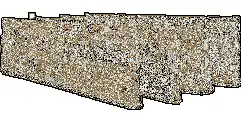
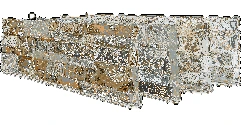
installation guide picture tag

diff --git a/installation.html b/installation.html
@@ -23,20 +23,27 @@ layout: default
     <div class="row">
       <div class="medium-4 columns">
         <h3 class="color-primary text-center">Rock Panels</h3>
-        <a href="/products/stacked-stone-cladding/"><img loading="lazy" class="orbit-image" alt="Rock Panel Installation" src="/assets/images/theme/installation-rock-panels.png" title="installation-rock-panels"/></a>
+        <a href="/products/stacked-stone-cladding/">
+          <img  class="orbit-image" alt="Rock Panel Installation" src="/assets/images/theme/installation-rock-panels.png" title="installation-rock-panels"/>
+        </a>
       </div>
       <div class="medium-4 columns">
         <h3 class="color-primary text-center">XL Rock Panels</h3>
-        <a href="/products/thin-stone-veneer-panels/"><img loading="lazy" class="orbit-image" alt="XL Rock Panel Installation" src="/assets/images/unsorted/installation-xlx-copy.png" title="installation-xlx-copy"/></a>
+        <a href="/products/thin-stone-veneer-panels/">
+          <img class="orbit-image" alt="XL Rock Panel Installation" src="/assets/images/unsorted/installation-xlx-copy.webp" title="installation-xlx-copy"/></a>
       </div>
       <div class="medium-4 columns">
         <h3 class="color-primary text-center">Lynia IL Tiles</h3>
-        <a href="/products/lynia-mosaic-tiles/"><img loading="lazy" class="orbit-image" alt="Basalt Installation" src="/assets/images/theme/installation-basalt.png" title="installation-basalt"/></a>
+        <a href="/products/lynia-mosaic-tiles/">
+          <img class="orbit-image" alt="Basalt Installation" src="/assets/images/theme/installation-basalt.webp" title="installation-basalt"/>
+        </a>
       </div>
     </div>
     <div class="row columns">
       <p>
-        <a href="#installation-techniques"><img width="180" height="25" alt="Installation Techniques" src="/assets/images/unsorted/Architectural-Details-Below2.png" title="Architectural-Details-Below2"/></a>
+        <a href="#installation-techniques">
+          <img width="180" height="25" alt="Installation Techniques" src="/assets/images/unsorted/Architectural-Details-Below2.webp" title="Architectural-Details-Below2" />
+        </a>
       </p>
     </div>
   </div>
@@ -50,9 +57,10 @@ layout: default
     <div class="row">
       <div class="medium-4 columns">
         <h3 class="color-primary text-center">Before</h3>
-        <a data-toggle="installation-before"><img alt="How to Install Stacked Stone Veneer Progress Shot - Cement Board Prep" loading="lazy" class="orbit-image image-shadow" src="/assets/images/theme/installation-before.jpg" title="How To Install Stacked Stone Veneer - Before"/></a>
+        <a data-toggle="installation-before">
+          <img alt="How to Install Stacked Stone Veneer Progress Shot - Cement Board Prep" loading="lazy" class="orbit-image image-shadow" src="/assets/images/theme/installation-before.webp" title="How To Install Stacked Stone Veneer - Before"/></a>
         <div class="reveal" id="installation-before" data-reveal="">
-          <img alt="How to Install Stacked Stone Veneer Progress Shot - Cement Board Prep" loading="lazy" class="orbit-image" src="/assets/images/theme/installation-Before-large.jpg" title="How To Install Stacked Stone Veneer - Before"/>
+          <img alt="How to Install Stacked Stone Veneer Progress Shot - Cement Board Prep" loading="lazy" class="orbit-image" src="/assets/images/theme/installation-Before-large.webp" title="How To Install Stacked Stone Veneer - Before"/>
           <button class="close-button" data-close="" aria-label="Close reveal" type="button">
             <span aria-hidden="true">×</span>
           </button>
@@ -60,9 +68,11 @@ layout: default
       </div>
       <div class="medium-4 columns">
         <h3 class="color-primary text-center">During</h3>
-        <a data-toggle="installation-during"><img alt="How to Install Stacked Stone Veneer Panels - Progress Shot - Norstone Fingerjoint Corner Panels Installed" loading="lazy" class="orbit-image image-shadow" src="/assets/images/theme/installation-during.jpg" title="How To Install Stacked Stone Veneer - During"/></a>
+        <a data-toggle="installation-during">
+          <img alt="How to Install Stacked Stone Veneer Panels - Progress Shot - Norstone Fingerjoint Corner Panels Installed" loading="lazy" class="orbit-image image-shadow" src="/assets/images/theme/installation-during.webp" title="How To Install Stacked Stone Veneer - During"/>
+        </a>
         <div class="reveal" id="installation-during" data-reveal="">
-          <img alt="How to Install Stacked Stone Veneer Panels - Progress Shot - Norstone Fingerjoint Corner Panels Installed" loading="lazy" class="orbit-image" src="/assets/images/theme/installation-During-large.jpg" title="How To Install Stacked Stone Veneer - During"/>
+          <img alt="How to Install Stacked Stone Veneer Panels - Progress Shot - Norstone Fingerjoint Corner Panels Installed" loading="lazy" class="orbit-image" src="/assets/images/theme/installation-During-large.webp" title="How To Install Stacked Stone Veneer - During"/>
           <button class="close-button" data-close="" aria-label="Close reveal" type="button">
             <span aria-hidden="true">×</span>
           </button>
@@ -70,9 +80,11 @@ layout: default
       </div>
       <div class="medium-4 columns">
         <h3 class="color-primary text-center">After</h3>
-        <a data-toggle="installation-after"><img alt="How to Install Norstone's Stone Panel System - After Completion" loading="lazy" class="orbit-image image-shadow" src="/assets/images/theme/installation-after.jpg" title="How To Install Stacked Stone Veneer - After"/></a>
+        <a data-toggle="installation-after">
+          <img alt="How to Install Norstone's Stone Panel System - After Completion" loading="lazy" class="orbit-image image-shadow" src="/assets/images/theme/installation-after.webp" title="How To Install Stacked Stone Veneer - After"/>
+        </a>
         <div class="reveal" id="installation-after" data-reveal="">
-          <img alt="How to Install Norstone's Stone Panel System - After Completion" loading="lazy" class="orbit-image" src="/assets/images/theme/installation-AfterPic-large.jpg" title="How To Install Stacked Stone Veneer - After"/>
+          <img alt="How to Install Norstone's Stone Panel System - After Completion" loading="lazy" class="orbit-image" src="/assets/images/theme/installation-AfterPic-large.webp" title="How To Install Stacked Stone Veneer - After"/>
           <button class="close-button" data-close="" aria-label="Close reveal" type="button">
             <span aria-hidden="true">×</span>
           </button>
@@ -81,7 +93,9 @@ layout: default
     </div>
     <div class="row columns">
       <p>
-        <a href="#photos"><img width="180" height="25" alt="Installation Photos" src="/assets/images/unsorted/installation-photos.png" title="installation-photos"/></a>
+        <a href="#photos">
+          <img width="180" height="25" alt="Installation Photos" src="/assets/images/unsorted/installation-photos.png" title="installation-photos"/>
+        </a>
       </p>
     </div>
   </div>
@@ -95,23 +109,24 @@ layout: default
     <div class="row columns">
       <div style="display: inline-block; margin-right: 20px">
         <h3 class="color-primary text-center">Trowel</h3>
-        <img alt="Tools for Installing Ledgestone Veneer - Half-inch notched Trowel to Apply Thinset" src="/assets/images/theme/installation-tools-trowel.jpg" title="installation-tools-stone-setting-trowel"/><p></p>
+        <img alt="Tools for Installing Ledgestone Veneer - Half-inch notched Trowel to Apply Thinset" src="/assets/images/theme/installation-tools-trowel.webp" title="installation-tools-stone-setting-trowel"/>
+        <p></p>
       </div>
       <div style="display: inline-block; margin-right: 20px">
         <h3 class="color-primary text-center">Thinset</h3>
-        <img alt="Tools for Installing Ledgestone Veneer - Polymer Modified Thinset for Stone Setting" src="/assets/images/theme/installation-tools-thinset.jpg" title="installation-tools-thinset-for-installing-stone-veneer"/>
+        <img alt="Tools for Installing Ledgestone Veneer - Polymer Modified Thinset for Stone Setting" src="/assets/images/theme/installation-tools-thinset.webp" title="installation-tools-thinset-for-installing-stone-veneer"/>
       </div>
       <div style="display: inline-block; margin-right: 20px">
         <h3 class="color-primary text-center">Level</h3>
-        <img alt="Tools for Installing Ledgestone Veneer - Tile Level" src="/assets/images/theme/installation-tools-level.jpg" title="installation-tools-level-for-measuring-your-wall-line"/>
+        <img alt="Tools for Installing Ledgestone Veneer - Tile Level" src="/assets/images/theme/installation-tools-level.webp" title="installation-tools-level-for-measuring-your-wall-line"/>
       </div>
       <div style="display: inline-block; margin-right: 20px">
         <h3 class="color-primary text-center">Tile Saw</h3>
-        <img alt="Tools for Installing Ledgestone Panels - Stone Wet Saw for Stone Cutting" src="/assets/images/theme/installation-tools-tiles-saw.jpg" title="installation-tools-tiles-saw-for-cutting-stone-veneer"/>
+        <img alt="Tools for Installing Ledgestone Panels - Stone Wet Saw for Stone Cutting" src="/assets/images/theme/installation-tools-tiles-saw.webp" title="installation-tools-tiles-saw-for-cutting-stone-veneer"/>
       </div>
       <div style="display: inline-block; margin-right: 20px">
         <h3 class="color-primary text-center">Sponge</h3>
-        <p><img alt="Tools for Installing Ledgestone Veneer - Sponge for Clean-up" src="/assets/images/theme/installation-tools-sponge.jpg" title="installation-tools-sponge-for-cleaning-stone-veneer"/></p>
+        <p><img alt="Tools for Installing Ledgestone Veneer - Sponge for Clean-up" src="/assets/images/theme/installation-tools-sponge.webp" title="installation-tools-sponge-for-cleaning-stone-veneer"/></p>
       </div>
     </div>
     <div class="row columns">
@@ -412,10 +427,45 @@ layout: default
     <hr/>
   </div>
   <div class="row columns" id="photos">
-    <img alt="Men installing Norstone stacked stone panels on performing arts center in Boston Massachusetts" src="/assets/images/theme/install-img-1.jpg" title="Stacked Stone Panel Installation in Progress in Commercial Building Project"/>
-    <img alt="Closeup of man setting a Norstone stone veneer panel in place on cement board using modified thinset" src="/assets/images/unsorted/DSC_0034-copy-1800.jpg" title="Closeup View of Installation of Stone Veneer Panels"/>
-    <img alt="Commercial Installation Crew installing Norstone Stacked Stone Panel System in a corridor in Pompano Beach Florida Casino" src="/assets/images/theme/install-img-3.jpg" title="Commercial Installation of Stacked Stone Panel System"/>
-    <img alt="Matthew Muenster Installs Norstone Stacked Stone Ledgestone Panels against drywall in HGTV Television Series I Hate My Bath - Winner of Golden Plunger Award Voted Series Best Bathroom Renovation" src="/assets/images/unsorted/DSCN3099-2300.jpg" title="HGTV Host Shows How to Install Stacked Stone Veneer"/>
-    <img alt="Progress Installation Shot of Norstone Ochre Rock Panels being installed on stairwell at healtchare facility in town of Boston Massachusetts" src="/assets/images/unsorted/stacked-stone-stairwell-installation.jpg" title="Norstone Ochre Blend Rock Panels in Stairwell Renovation Installation"/><p></p>
+    {% picture default /assets/images/theme/install-img-1.jpg
+    --img 
+      title="Stacked Stone Panel Installation in Progress in Commercial Building Project"
+      loading="lazy" 
+      width="910" height="609" 
+    --alt Men installing Norstone stacked stone panels on performing arts center in Boston Massachusetts
+    %}
+
+    {% picture default /assets/images/unsorted/DSC_0034-copy-1800.jpg
+      --img 
+        title="Closeup of man setting a Norstone stone veneer panel in place on cement board using modified thinset"
+        loading="lazy" 
+        width="910" height="609" 
+      --alt Closeup of man setting a Norstone stone veneer panel in place on cement board using modified thinset
+    %}
+
+    {% picture default /assets/images/theme/install-img-3.jpg
+      --img 
+        title="Commercial Installation of Stacked Stone Panel System"
+        loading="lazy" 
+        width="910" height="609" 
+      --alt Commercial Installation Crew installing Norstone Stacked Stone Panel System in a corridor in Pompano Beach Florida Casino
+    %}
+
+    {% picture default /assets/images/unsorted/DSCN3099-2300.jpg
+      --img 
+        title="HGTV Host Shows How to Install Stacked Stone Veneer"
+        loading="lazy" 
+        width="910" height="609" 
+      --alt Matthew Muenster Installs Norstone Stacked Stone Ledgestone Panels against drywall in HGTV Television Series I Hate My Bath - Winner of Golden Plunger Award Voted Series Best Bathroom Renovation
+   %}
+
+   {% picture default /assets/images/unsorted/stacked-stone-stairwell-installation.jpg
+     --img 
+       title="Norstone Ochre Blend Rock Panels in Stairwell Renovation Installation"
+       loading="lazy" 
+       width="910" height="609" 
+     --alt Progress Installation Shot of Norstone Ochre Rock Panels being installed on stairwell at healtchare facility in town of Boston Massachusetts
+  %}
+  <p></p>
   </div>
 </div>

diff --git a/_galleries/project/architects-office.html b/_galleries/project/architects-office.html
@@ -53,7 +53,7 @@ rows:
   <div class="large-5 columns {% cycle '', 'large-push-7' %}">
     {% picture default /{{ row.image.src }} 
     --img 
-      title="{{ row.image.title }}
+      title="{{ row.image.title }}"
       class="orbit-image"
       loading="lazy" 
       width="362" height="222" 
